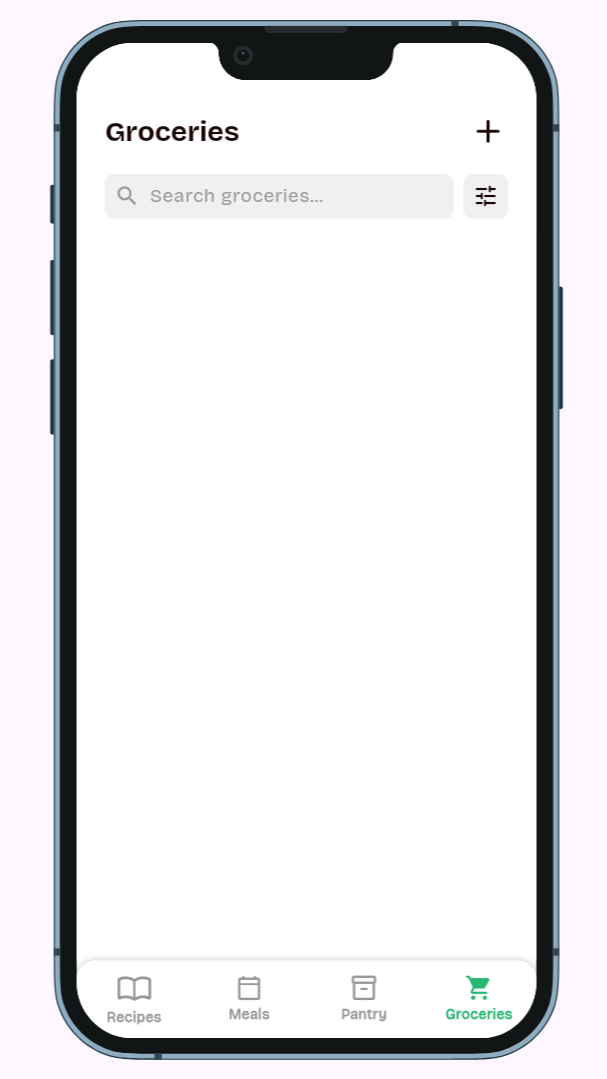
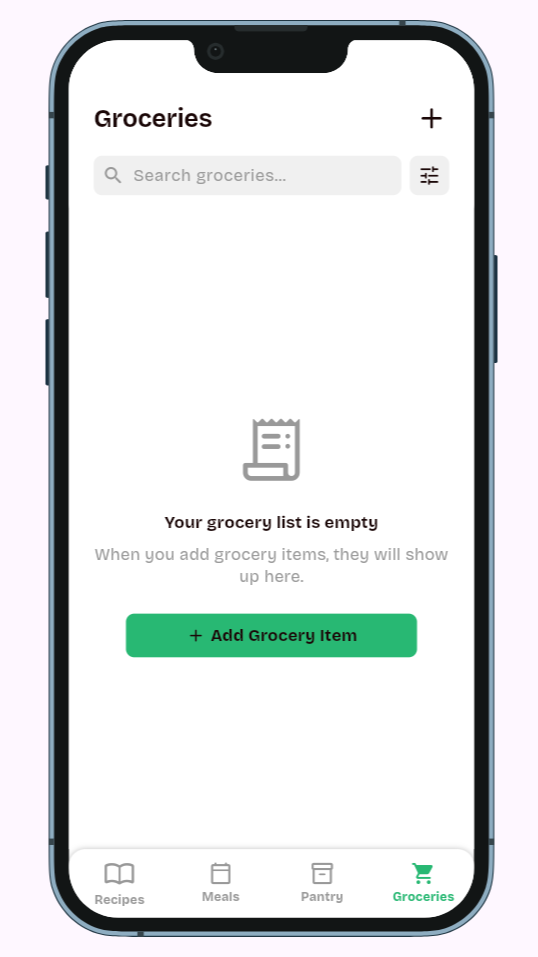
Update screenshots

diff --git a/README.md b/README.md
@@ -105,17 +105,21 @@ docs/                               project documentation, screenshots, and font
 
 ## 6. Screenshots
 
-| Recipes | Add Recipe | Meal Plan |
+| Recipes (Explore) | Recipes (Saved) | Recipes (My Recipes) |
 | --- | --- | --- |
-| ![Recipes](docs/assets/screenshots/recipes.PNG) | ![Add Recipe](docs/assets/screenshots/add_recipe.PNG) | ![Meal Plan](docs/assets/screenshots/meal_plan.PNG) |
+| ![Recipes (Explore)](docs/assets/screenshots/recipes_explore.PNG) | ![Recipes (Saved)](docs/assets/screenshots/recipes_saved.PNG) | ![Recipes (My Recipes)](docs/assets/screenshots/recipes_my_recipes.PNG) |
 
-| Add Meal | Pantry | Add Pantry Item |
+| Add Recipe | Meal Plan (Day) | Meal Plan (Week) |
 | --- | --- | --- |
-| ![Add Meal](docs/assets/screenshots/add_meal.PNG) | ![Pantry](docs/assets/screenshots/pantry.PNG) | ![Add Pantry Item](docs/assets/screenshots/add_pantry_item.PNG) |
+| ![Add Recipe](docs/assets/screenshots/add_recipe.PNG) | ![Meal Plan](docs/assets/screenshots/meal_plan_day.PNG) | ![Meal Plan (Week)](docs/assets/screenshots/meal_plan_week.PNG) |
 
-| Groceries | Add Grocery Item | --- |
+| Pantry | Add Pantry Item | Groceries |
 | --- | --- | --- |
-| ![Add Groceries](docs/assets/screenshots/groceries.PNG) | ![Add Grocery Item](docs/assets/screenshots/add_grocery_jtem.PNG) | ![]() |
+| ![Pantry](docs/assets/screenshots/pantry.PNG) | ![Add Pantry Item](docs/assets/screenshots/add_pantry_item.PNG) | ![Groceries](docs/assets/screenshots/groceries.PNG) |
+
+| Add Grocery Item |   |  |
+| --- | --- | --- |
+| ![Add Grocery Item](docs/assets/screenshots/add_grocery_item.PNG) | ![]() | ![]() |
 
 ## 7. Known issues and next steps
 
@@ -134,7 +138,7 @@ docs/                               project documentation, screenshots, and font
 3. Improve validation and edge-case handling, including duplicate items and state updates.
 4. Refresh screenshots and finish the demo and presentation materials.
 
-## Security
+## Security checklist
 
 See [SECURITY-CHECKLIST.md](SECURITY-CHECKLIST.md) for the project's security review, including client configuration, GitHub Actions, and the server-side Spoonacular key.
 
